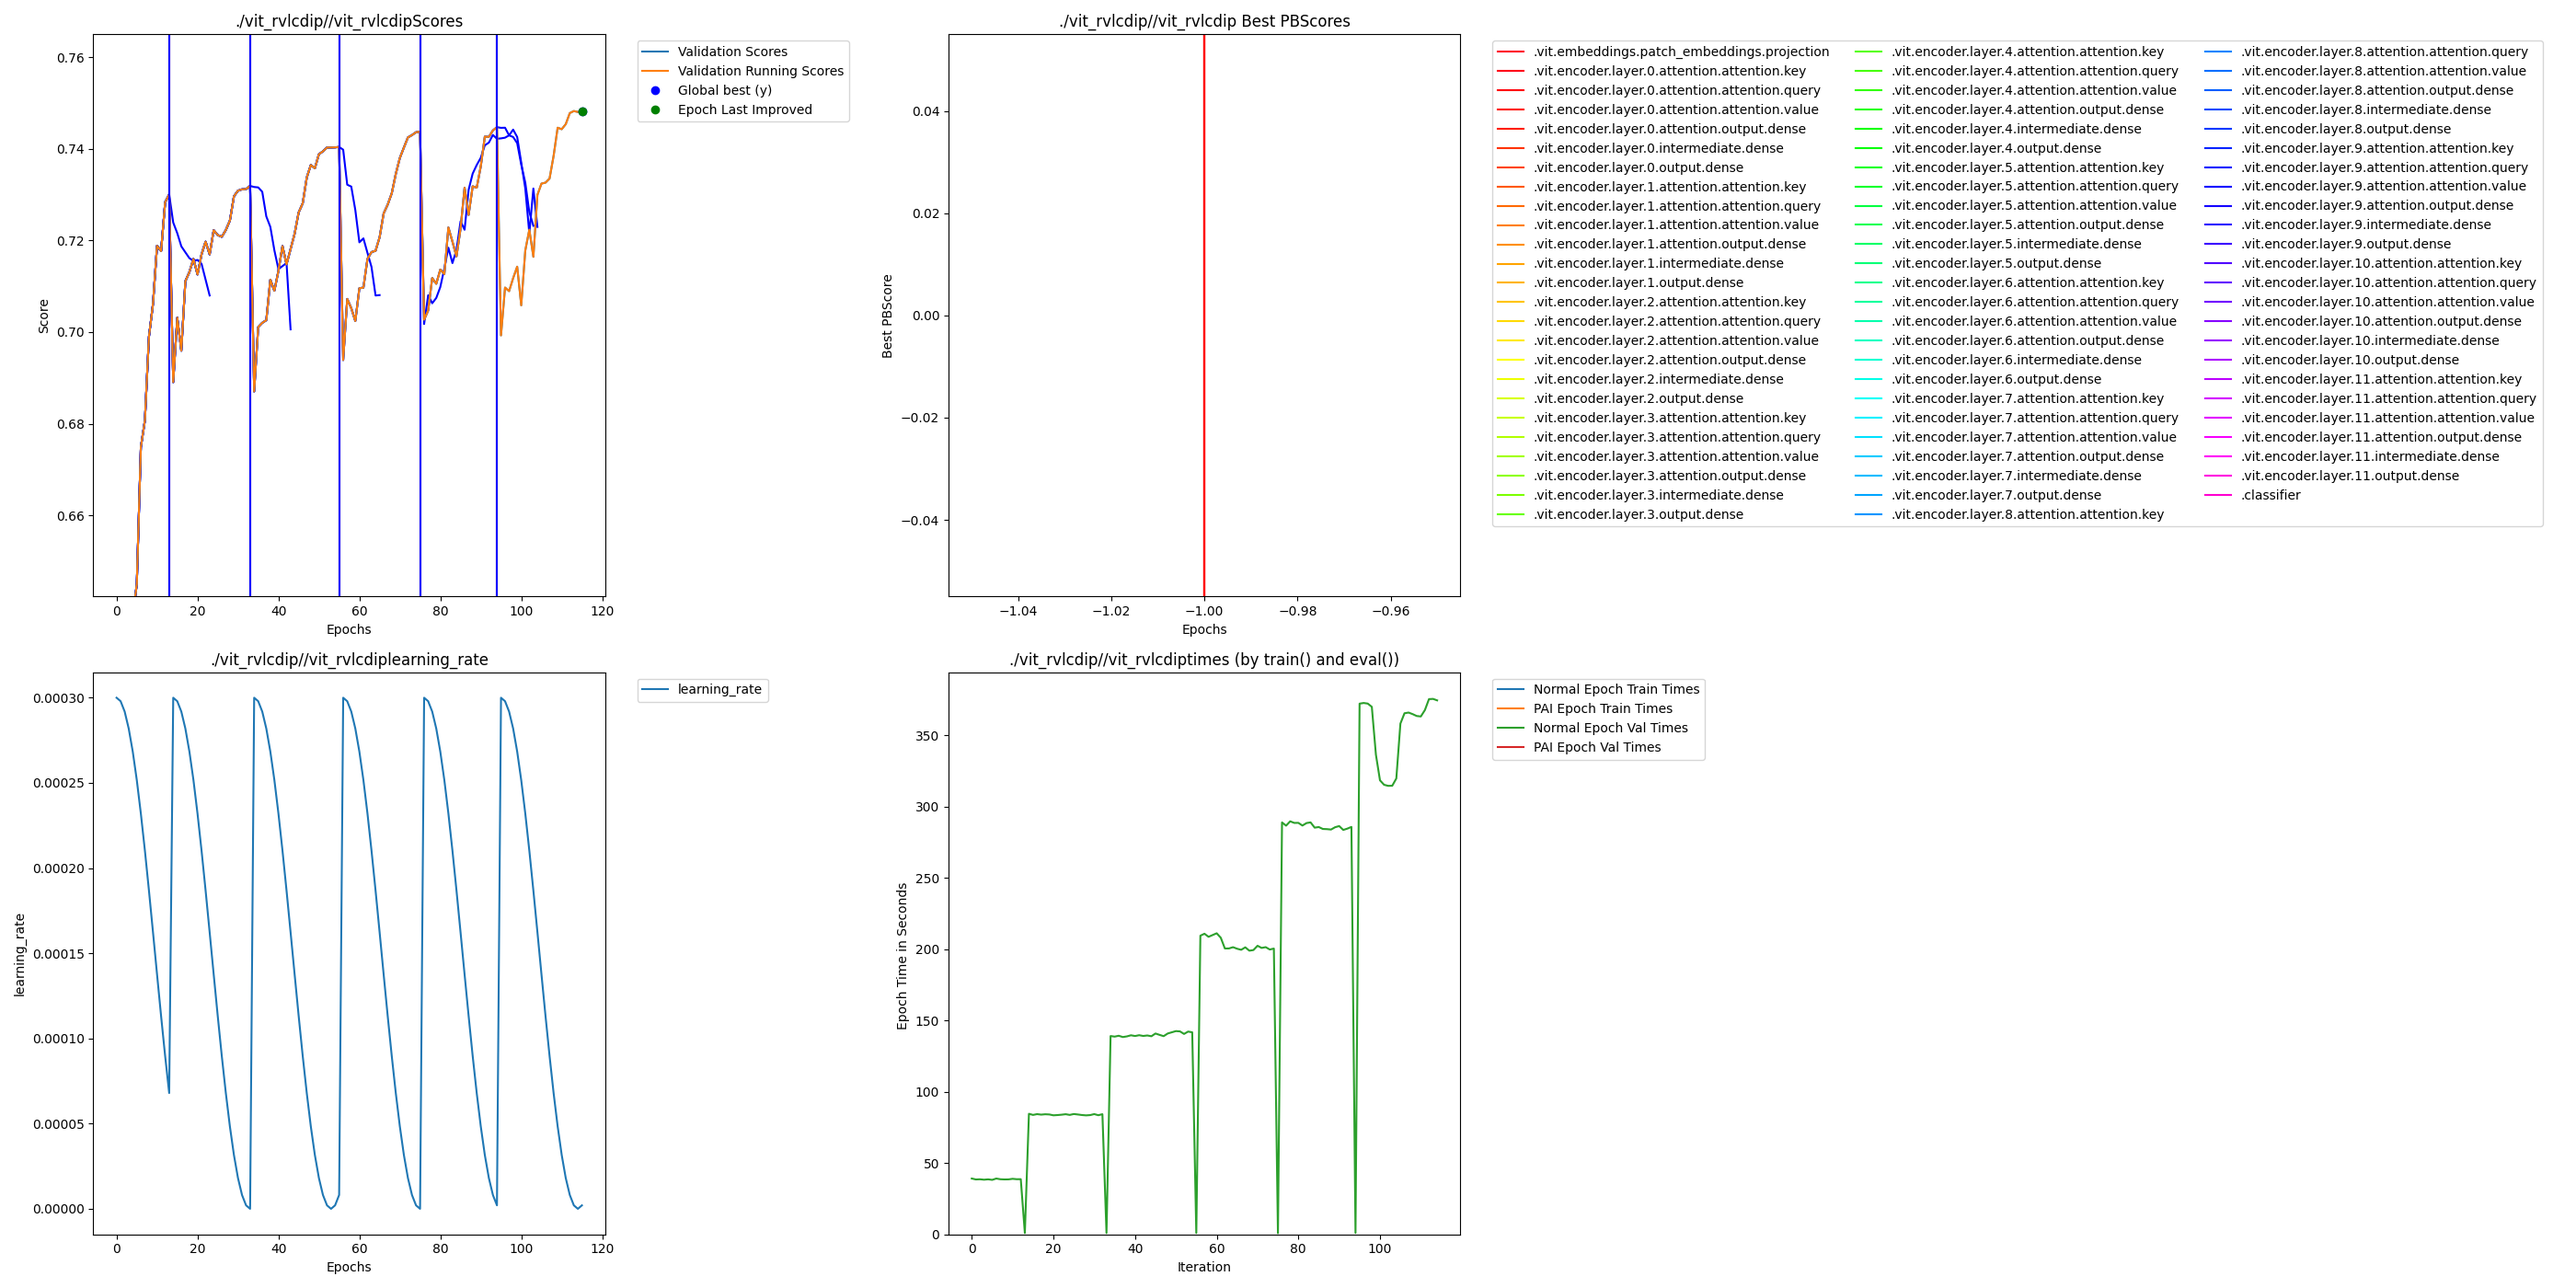
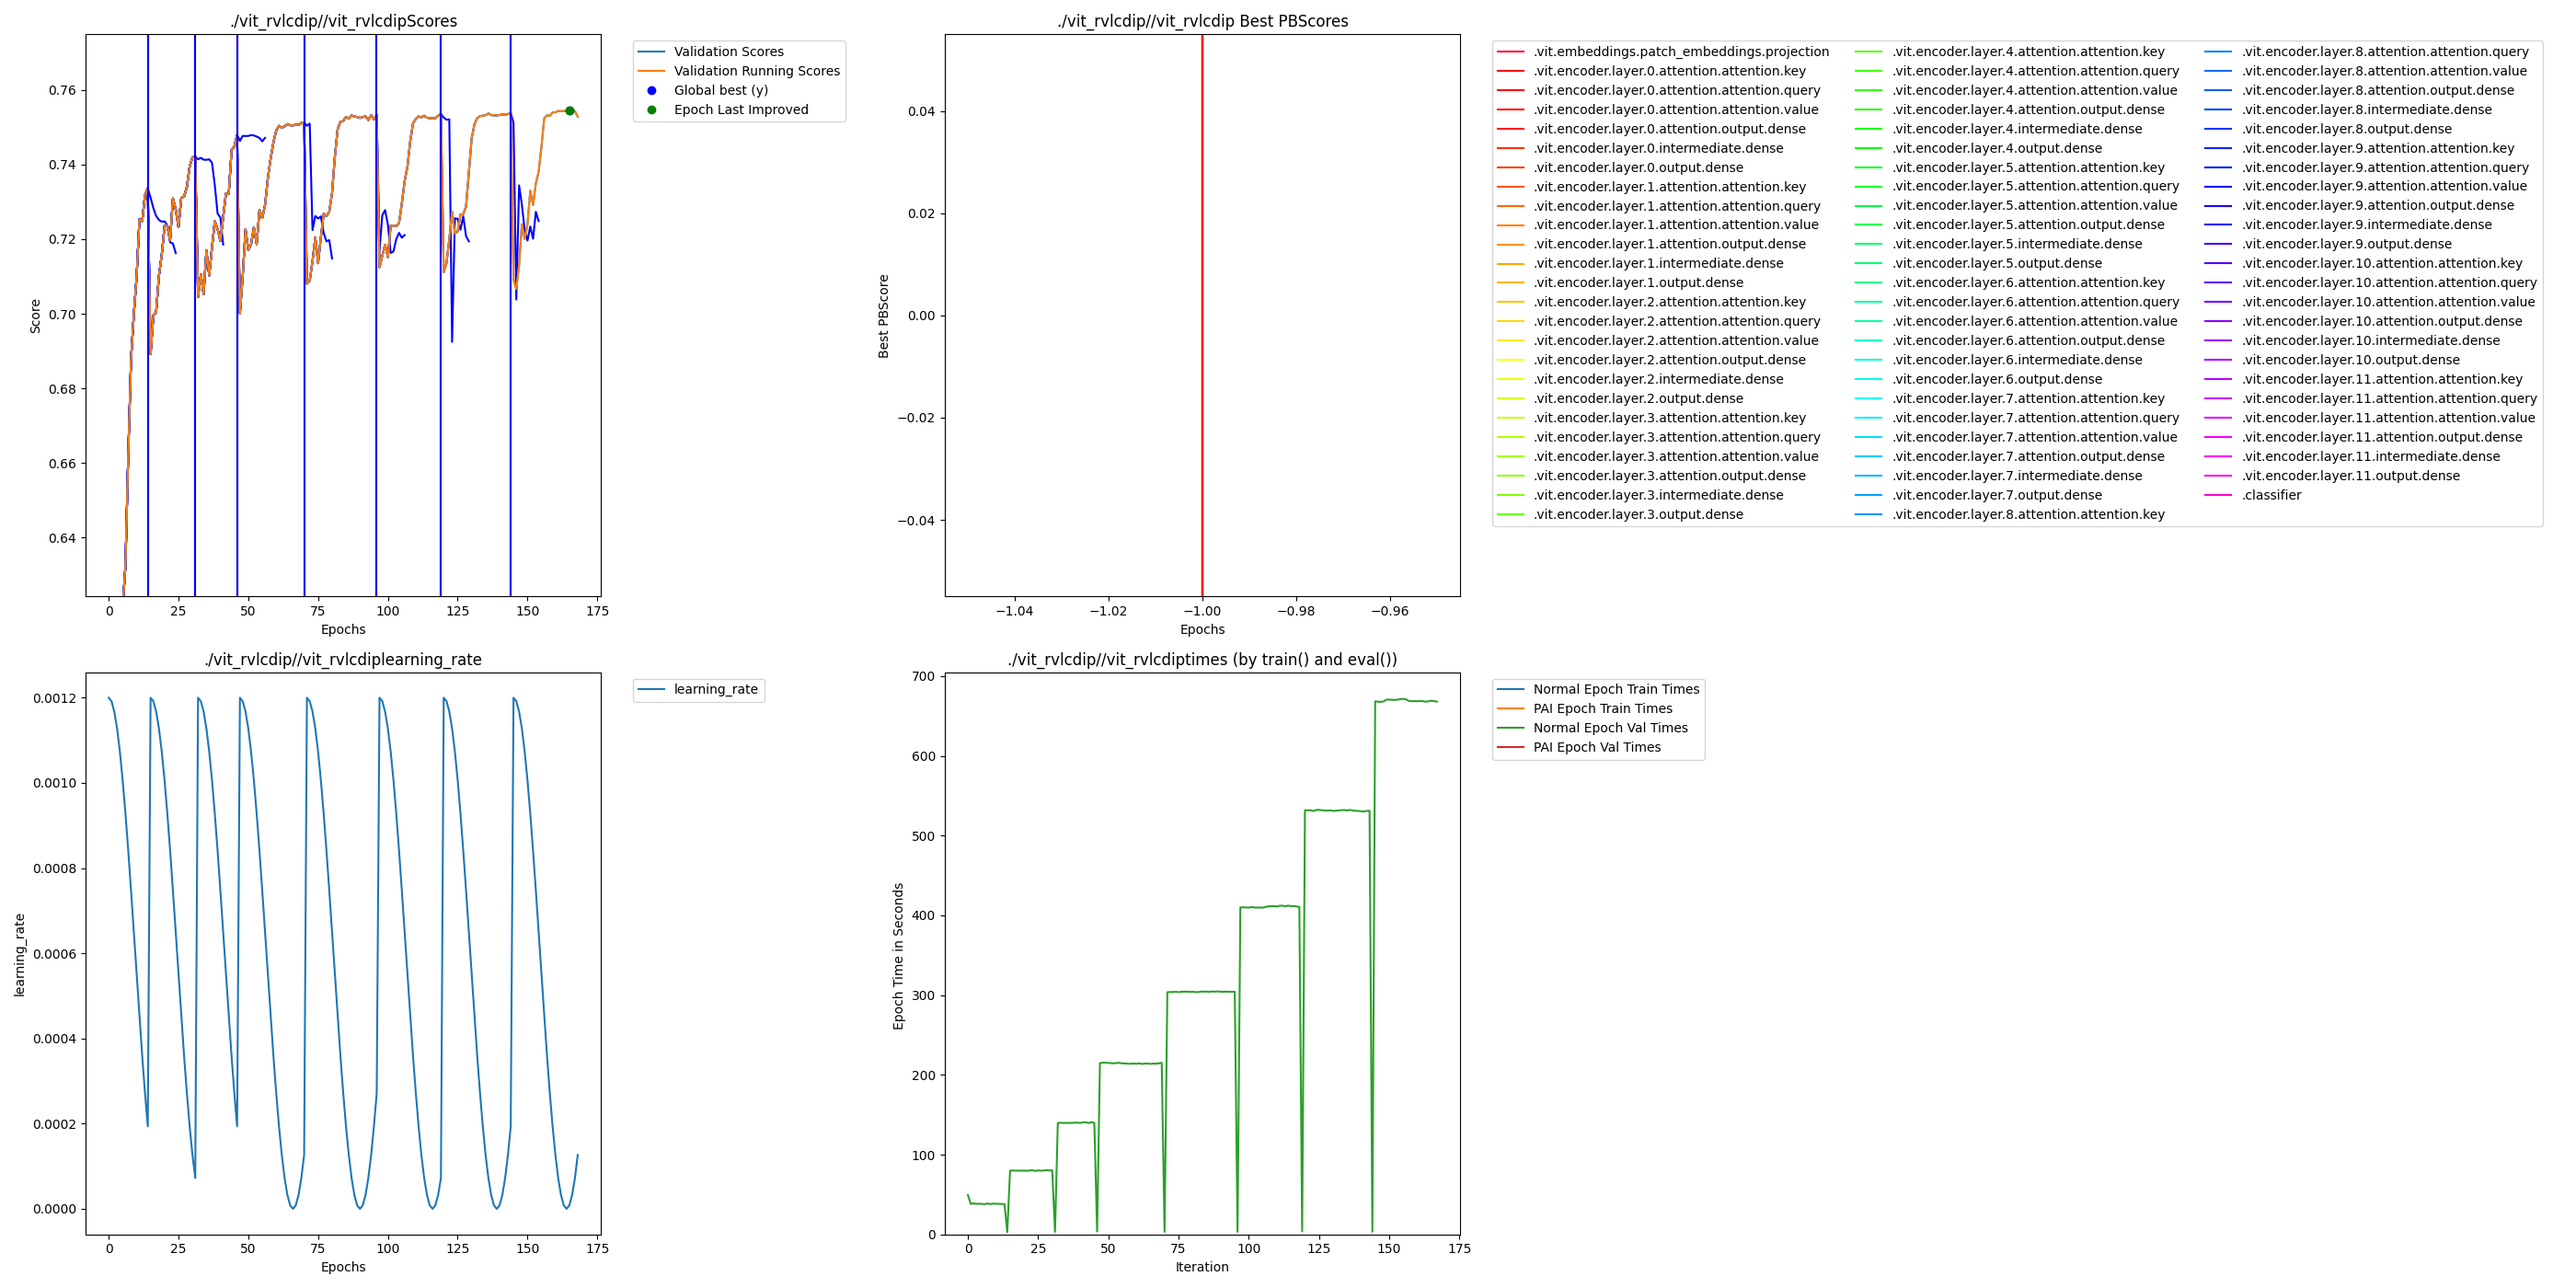
Improvements in vit classifier to make it run faster. (#49)
* Improvements to vit_tiny_classifier

* add png

* Copy data

* Final commit for fast vit training

* Update README

* Fix GPU memory leak during PAI restructuring

- Explicitly delete old optimizer, scheduler, and scaler before gc
- Recreate GradScaler after model restructuring (was holding stale refs)
- Add torch.cuda.synchronize() for accurate memory readings
- Improve memory logging to show both allocated and reserved memory

* Add TF32 and channels-last optimizations for A100

- Enable TF32 precision for faster matmul on A100 (~10% speedup)
- Enable channels-last memory format for vision models (~5-15% speedup)

* Disable fused AdamW - incompatible with channels-last format

* Keep fused AdamW, remove channels-last (incompatible)

* Add --max-dendrites argument to limit memory growth (default: 4)

* Fix accuracy regression: keep GradScaler state, remove TF32

- Stop deleting/recreating GradScaler after restructuring
  (its learned loss scale is model-independent and matters for accuracy)
- Keep optimizer/scheduler deletion (required when model params change)
- Remove TF32 flags (reduces precision, safer without)

This should restore 79-80% accuracy while keeping memory fix.

* Revert memory fixes - restore original restructuring behavior

Remove explicit del optimizer/scheduler/scaler that was causing
accuracy regression (79-80% -> 26%). Let Python handle garbage
collection naturally instead of forcing it.
[…]

diff --git a/Examples/libraryExamples/huggingface/vit-tiny-classifier-rvlcdip/vit_tiny_classifier.py b/Examples/libraryExamples/huggingface/vit-tiny-classifier-rvlcdip/vit_tiny_classifier.py
@@ -15,6 +15,7 @@ import random
 import numpy as np
 import time
 import os
+import gc
 
 # PAI imports (optional - only used when --use-dendrites is set)
 GPA = None
@@ -34,7 +35,7 @@ def set_seed(seed):
     print(f"Random seed set to {seed}")
 
 
-def init_pai():
+def init_pai(max_dendrites=4):
     """Initialize PAI imports."""
     global GPA, UPA
     from perforatedai import globals_perforatedai as _GPA
@@ -43,6 +44,8 @@ def init_pai():
     UPA = _UPA
     GPA.pc.set_weight_decay_accepted(True)
     GPA.pc.set_unwrapped_modules_confirmed(True)
+    GPA.pc.set_max_dendrites(max_dendrites)
+    print(f"PAI max dendrites set to {max_dendrites}")
 
 
 def load_processor():
@@ -301,7 +304,7 @@ def preprocess_and_cache(dataset_name, split, processor, cache_dir, max_samples=
     return cache_path
 
 
-def create_optimizer_and_scheduler(model, lr, weight_decay, warmup_ratio, steps_per_epoch, epochs, use_dendrites=False):
+def create_optimizer_and_scheduler(model, lr, weight_decay, warmup_ratio, steps_per_epoch, epochs, device, use_dendrites=False):
     """Create AdamW optimizer and cosine scheduler with warmup."""
     decay_params = []
     no_decay_params = []
@@ -314,13 +317,18 @@ def create_optimizer_and_scheduler(model, lr, weight_decay, warmup_ratio, steps_
         else:
             decay_params.append(param)
 
+    # Use fused AdamW for CUDA (faster)
+    use_fused = device.type == "cuda"
     optimizer = AdamW(
         [
             {"params": decay_params, "weight_decay": weight_decay},
             {"params": no_decay_params, "weight_decay": 0.0},
         ],
         lr=lr,
+        fused=use_fused,
     )
+    if use_fused:
+        print("Using fused AdamW optimizer")
 
     num_training_steps = steps_per_epoch * epochs
     num_warmup_steps = int(num_training_steps * warmup_ratio)
@@ -438,8 +446,14 @@ def train(
         train_dataset = CachedDataset(train_cache)
         val_dataset = CachedDataset(val_cache)
 
-        train_loader = DataLoader(train_dataset, batch_size=batch_size, shuffle=True, num_workers=2, pin_memory=True)
-        val_loader = DataLoader(val_dataset, batch_size=batch_size, shuffle=False, num_workers=2, pin_memory=True)
+        train_loader = DataLoader(
+            train_dataset, batch_size=batch_size, shuffle=True,
+            num_workers=4, pin_memory=True, persistent_workers=True, prefetch_factor=4
+        )
+        val_loader = DataLoader(
+            val_dataset, batch_size=batch_size, shuffle=False,
+            num_workers=4, pin_memory=True, persistent_workers=True, prefetch_factor=4
+        )
 
         steps_per_epoch = len(train_loader)
         print(f"Using cached data: {len(train_dataset)} train, {len(val_dataset)} val samples")
@@ -457,6 +471,7 @@ def train(
         warmup_ratio=warmup_ratio,
         steps_per_epoch=steps_per_epoch,
         epochs=epochs,
+        device=device,
         use_dendrites=use_dendrites,
     )
 
@@ -554,6 +569,14 @@ def train(
 
             if restructured:
                 print("Model restructured by PAI, recreating optimizer...")
+                # Log model size after restructuring
+                num_params = sum(p.numel() for p in model.parameters())
+                print(f"Model parameters after restructuring: {num_params:,}")
+                # Free memory (don't explicitly delete - let Python handle it)
+                gc.collect()
+                if device.type == "cuda":
+                    torch.cuda.empty_cache()
+                    print(f"GPU memory freed. Allocated: {torch.cuda.memory_allocated() / 1e9:.2f} GB")
                 # Use the original epochs value for scheduler (not remaining epochs)
                 # since we're running indefinitely until PAI stops us
                 optimizer, scheduler = create_optimizer_and_scheduler(
@@ -563,6 +586,7 @@ def train(
                     warmup_ratio=warmup_ratio,
                     steps_per_epoch=steps_per_epoch,
                     epochs=epochs,  # Use original value, not remaining
+                    device=device,
                     use_dendrites=use_dendrites,
                 )
 
@@ -592,6 +616,7 @@ def main():
     parser.add_argument("--queue-size", type=int, default=8, help="Prefetch queue size")
     # PAI options
     parser.add_argument("--use-dendrites", action="store_true", help="Enable PerforatedAI dendrites")
+    parser.add_argument("--max-dendrites", type=int, default=4, help="Maximum dendrites to add (default: 4)")
     parser.add_argument("--save-name", type=str, default="vit_rvlcdip", help="Save name for PAI outputs")
     parser.add_argument("--seed", type=int, default=42, help="Random seed")
 
@@ -612,6 +637,8 @@ def main():
     if device.type == "cuda":
         print(f"GPU: {torch.cuda.get_device_name(0)}")
         print(f"GPU Memory: {torch.cuda.get_device_properties(0).total_memory / 1e9:.1f} GB")
+        torch.backends.cudnn.benchmark = True
+        print("cuDNN benchmark enabled")
     elif device.type == "mps":
         print("Using Apple Metal GPU (MPS)")
 
@@ -619,7 +646,7 @@ def main():
 
     if args.use_dendrites:
         print("Initializing PerforatedAI...")
-        init_pai()
+        init_pai(max_dendrites=args.max_dendrites)
         #GPA.pc.set_output_dimensions([-1, -1, 0])
         GPA.pc.set_testing_dendrite_capacity(False)
         model = UPA.initialize_pai(
@@ -632,6 +659,8 @@ def main():
         configure_pai_dimensions(model)
 
     model.to(device)
+    num_params = sum(p.numel() for p in model.parameters())
+    print(f"Model parameters: {num_params:,}")
 
     if args.train:
         print(f"\nStarting training on '{args.dataset}'...")

diff --git a/Examples/libraryExamples/huggingface/vit-tiny-classifier-rvlcdip/README.md b/Examples/libraryExamples/huggingface/vit-tiny-classifier-rvlcdip/README.md
@@ -102,10 +102,10 @@ Uses `vit-tiny` architecture with random initialization (not pretrained weights)
 
 ## Results
 
-Training with PerforatedAI dendrites achieves **74.82% accuracy** on 80k samples, compared to **73.01%** without dendrites.  This is an **6.7%** reduction in remaining error:
+Training with PerforatedAI dendrites achieves **75.45% accuracy** on 80k samples, compared to **73.01%** without dendrites.  This is a 3% improvement in accuracy.
 
 ```bash
-CUDA_VISIBLE_DEVICES=0 python vit_tiny_classifier.py --train --max-samples 80000 --eval --use-dendrites --training-epochs 20 --cache-dir './cache'
+CUDA_VISIBLE_DEVICES=0 python Examples/libraryExamples/huggingface/vit-tiny-classifier-rvlcdip/vit_tiny_classifier.py  --train --max-samples=80000 --eval --use-dendrites --training-epochs 20 --cache-dir './cache' --batch-size 256 --lr 0.0012 
 ```
 
 ![ViT RVL-CDIP Training Results](vit_rvlcdip.png)
